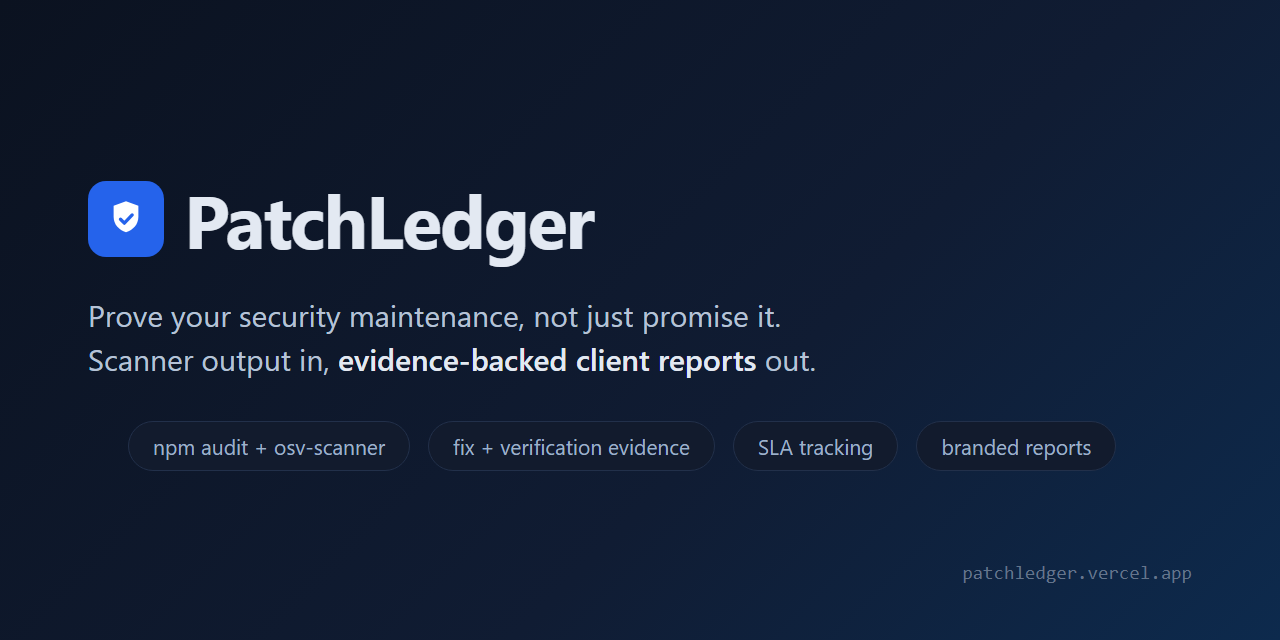
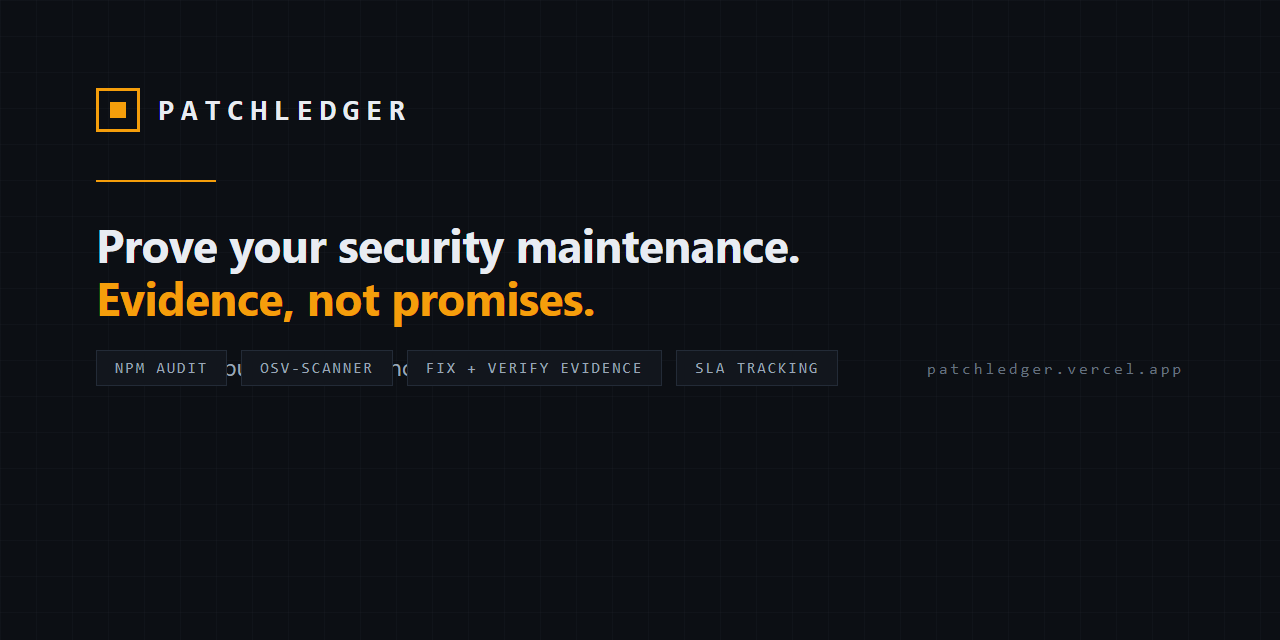
docs: recapture product screenshots and social card in the ledger identity

diff --git a/docs/screenshots/README.md b/docs/screenshots/README.md
@@ -1,3 +1,3 @@
 # Product screenshots
 
-Captured from the live production deploy; regenerate with `node scripts/capture-shots.mjs`.
+Captured from the live production deploy (dark ledger identity); regenerate with `node scripts/capture-shots.mjs`.
